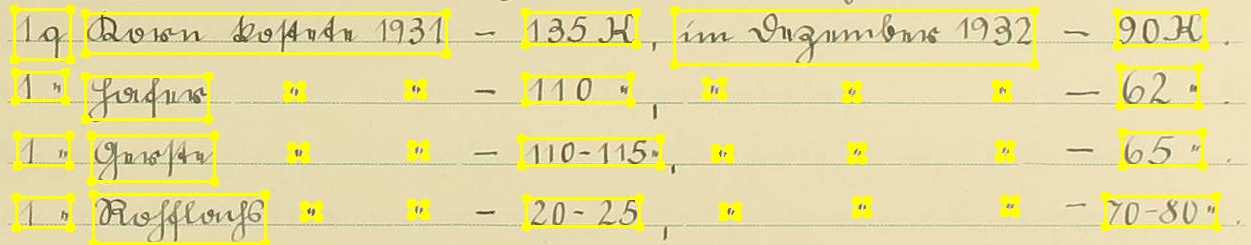
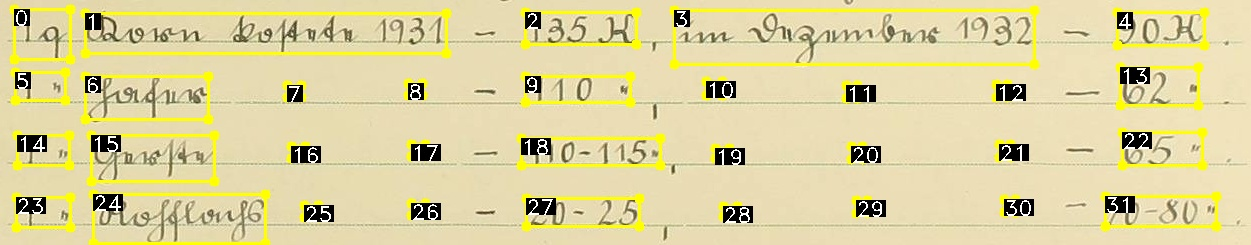
Export mix of images to check everything.

diff --git a/dataset/reconstruct_tables.py b/dataset/reconstruct_tables.py
@@ -21,6 +21,7 @@ import logging
 import cv2
 from tqdm import tqdm
 from bs4 import BeautifulSoup
+from copy import deepcopy
 
 import numpy as np
 
@@ -91,11 +92,13 @@ class TableConstructor:
         self.output_folder_xml = os.path.join(output_folder, 'xml')
         self.output_folder_html = os.path.join(output_folder, 'html')
         self.output_folder_html_render = os.path.join(output_folder, 'html_render')
+        self.output_folder_mixed = os.path.join(output_folder, 'mixed')
         os.makedirs(self.output_folder_render, exist_ok=True)
         os.makedirs(self.output_folder_reconstrution, exist_ok=True)
         os.makedirs(self.output_folder_xml, exist_ok=True)
         os.makedirs(self.output_folder_html, exist_ok=True)
         os.makedirs(self.output_folder_html_render, exist_ok=True)
+        os.makedirs(self.output_folder_mixed, exist_ok=True)
 
         if verbose:
             logging.basicConfig(level=logging.DEBUG, format='[%(levelname)-s]\t- %(message)s')
@@ -140,6 +143,7 @@ class TableConstructor:
 
             xml_name = img_name + '.xml'
             layout = TablePageLayout.from_table_pagexml(os.path.join(self.xml_folder, xml_name))
+            layout_orig = deepcopy(layout)
             assert len(layout.tables) == 1, f'Expected one table in layout, got {len(layout.tables)}'
 
             html = self.read_html_from_task(task)
@@ -148,7 +152,7 @@ class TableConstructor:
 
             with open(html_path, 'w') as f:
                 f.write(html.prettify())
-            
+
             # render html to image
             html_render = self.render_html_table_to_image(html_path)
             cv2.imwrite(html_render_path, html_render)
@@ -177,15 +181,25 @@ class TableConstructor:
             layout.to_table_pagexml(xml_path)
 
             # render page with joined cells
-            img = render_cells(img, layout.tables[0].cell_iterator(include_faulty=True))
+            rendered_ids = render_cells(img, layout.tables[0].cell_iterator(include_faulty=True), render_ids=True)
             filename = f"{img_name}_render.{img_ext}"
-            cv2.imwrite(os.path.join(self.output_folder_render, filename), img)
+            cv2.imwrite(os.path.join(self.output_folder_render, filename), rendered_ids)
+
+            # render orig page with ids
+            # rendered_ids_orig = img_orig.copy()
+            # rendered_ids_orig = render_cells(rendered_ids_orig, layout_orig.tables[0].cell_iterator(include_faulty=True), render_ids=True)
 
             # render table reconstruction
-            img = img_orig.copy()
-            img = render_table_reconstruction(img, layout.tables[0].cells)
+            reconstruction = img_orig.copy()
+            reconstruction = render_table_reconstruction(reconstruction, layout.tables[0].cells)
             filename = f"{img_name}_reconstruction.{img_ext}"
-            cv2.imwrite(os.path.join(self.output_folder_reconstrution, filename), img)
+            cv2.imwrite(os.path.join(self.output_folder_reconstrution, filename), reconstruction)
+
+            # render image with orig table, reconstructed table, cell order and html render
+            # mixed = self.create_export_image(orig=img_orig, reconstruction=reconstruction, html_render=html_render, cell_order=rendered_ids_orig)
+            mixed = self.create_export_image(orig=img_orig, reconstruction=reconstruction, html_render=html_render, cell_order=rendered_ids)
+            filename = f"{img_name}_all.{img_ext}"
+            cv2.imwrite(os.path.join(self.output_folder_mixed, filename), mixed)
 
             exported += 1
 
@@ -373,6 +387,45 @@ class TableConstructor:
 
                 cell.coords = layout_cell.coords
                 cell.category = layout_cell.category
+
+    def create_export_image(self, orig: np.ndarray, reconstruction: np.ndarray, html_render: np.ndarray, cell_order: np.ndarray) -> np.ndarray:
+        # resize reconstruction to the same size as orig, keep aspect ratio and pad with white color
+        # reconstruction = cv2.resize(reconstruction, (orig.shape[1], orig.shape[0]))
+        reconstruction_resized = np.zeros_like(orig) + 255
+        if reconstruction.shape[0] > orig.shape[0] or reconstruction.shape[1] > orig.shape[1]:
+            scale = min(orig.shape[0] / reconstruction.shape[0], orig.shape[1] / reconstruction.shape[1])
+            reconstruction = cv2.resize(reconstruction, (0, 0), fx=scale, fy=scale)
+        reconstruction_resized[:reconstruction.shape[0], :reconstruction.shape[1]] = reconstruction
+
+        # pad html_render to the same size as orig with white color
+        html_render_resized = np.zeros_like(orig) + 255
+        if html_render.shape[0] > orig.shape[0] or html_render.shape[1] > orig.shape[1]:
+            scale = min(orig.shape[0] / html_render.shape[0], orig.shape[1] / html_render.shape[1])
+            html_render = cv2.resize(html_render, (0, 0), fx=scale, fy=scale)
+        html_render_resized[:html_render.shape[0], :html_render.shape[1]] = html_render
+
+        print(f'orig: {orig.shape}, reconstruction: {reconstruction_resized.shape}, html_render: {html_render.shape}, html_render_resized: {html_render_resized.shape}')
+        # check all images have the same shape (except for the number of channels)
+        assert orig.shape[:2] == reconstruction_resized.shape[:2] == html_render_resized.shape[:2] == cell_order.shape[:2], \
+            f'Images have different shapes: orig: {orig.shape}, reconstruction: {reconstruction_resized.shape}, html_render_resized: {html_render_resized.shape}'
+
+        # if x > y, render:       orig     | cell_order
+        #                   reconstruction | html_render
+        if orig.shape[1] > orig.shape[0]:
+            vertical_padding = np.zeros((orig.shape[0], 10, 3), dtype=np.uint8)
+            first_row = np.hstack([orig, vertical_padding, cell_order])
+            second_row = np.hstack([reconstruction_resized, vertical_padding, html_render_resized])
+            horizontal_padding = np.zeros((10, first_row.shape[1], 3), dtype=np.uint8)
+            return np.vstack([first_row, horizontal_padding, second_row])
+        # if x < y, render:    orig    | reconstruction 
+        #                   cell_order |   html_render
+        elif orig.shape[1] <= orig.shape[0]:
+            vertical_padding = np.zeros((orig.shape[0], 10, 3), dtype=np.uint8)
+            # print(f'hstacking orig: {orig.shape}, vertical_padding: {vertical_padding.shape}, reconstruction: {reconstruction_resized.shape}')
+            first_row = np.hstack([orig, vertical_padding, reconstruction_resized])
+            second_row = np.hstack([cell_order, vertical_padding, html_render_resized])
+            horizontal_padding = np.zeros((10, first_row.shape[1], 3), dtype=np.uint8)
+            return np.vstack([first_row, horizontal_padding, second_row])
 
     @staticmethod
     def render_html_table_to_image(html_file: str, tmp_image='tmp.png') -> np.ndarray:
